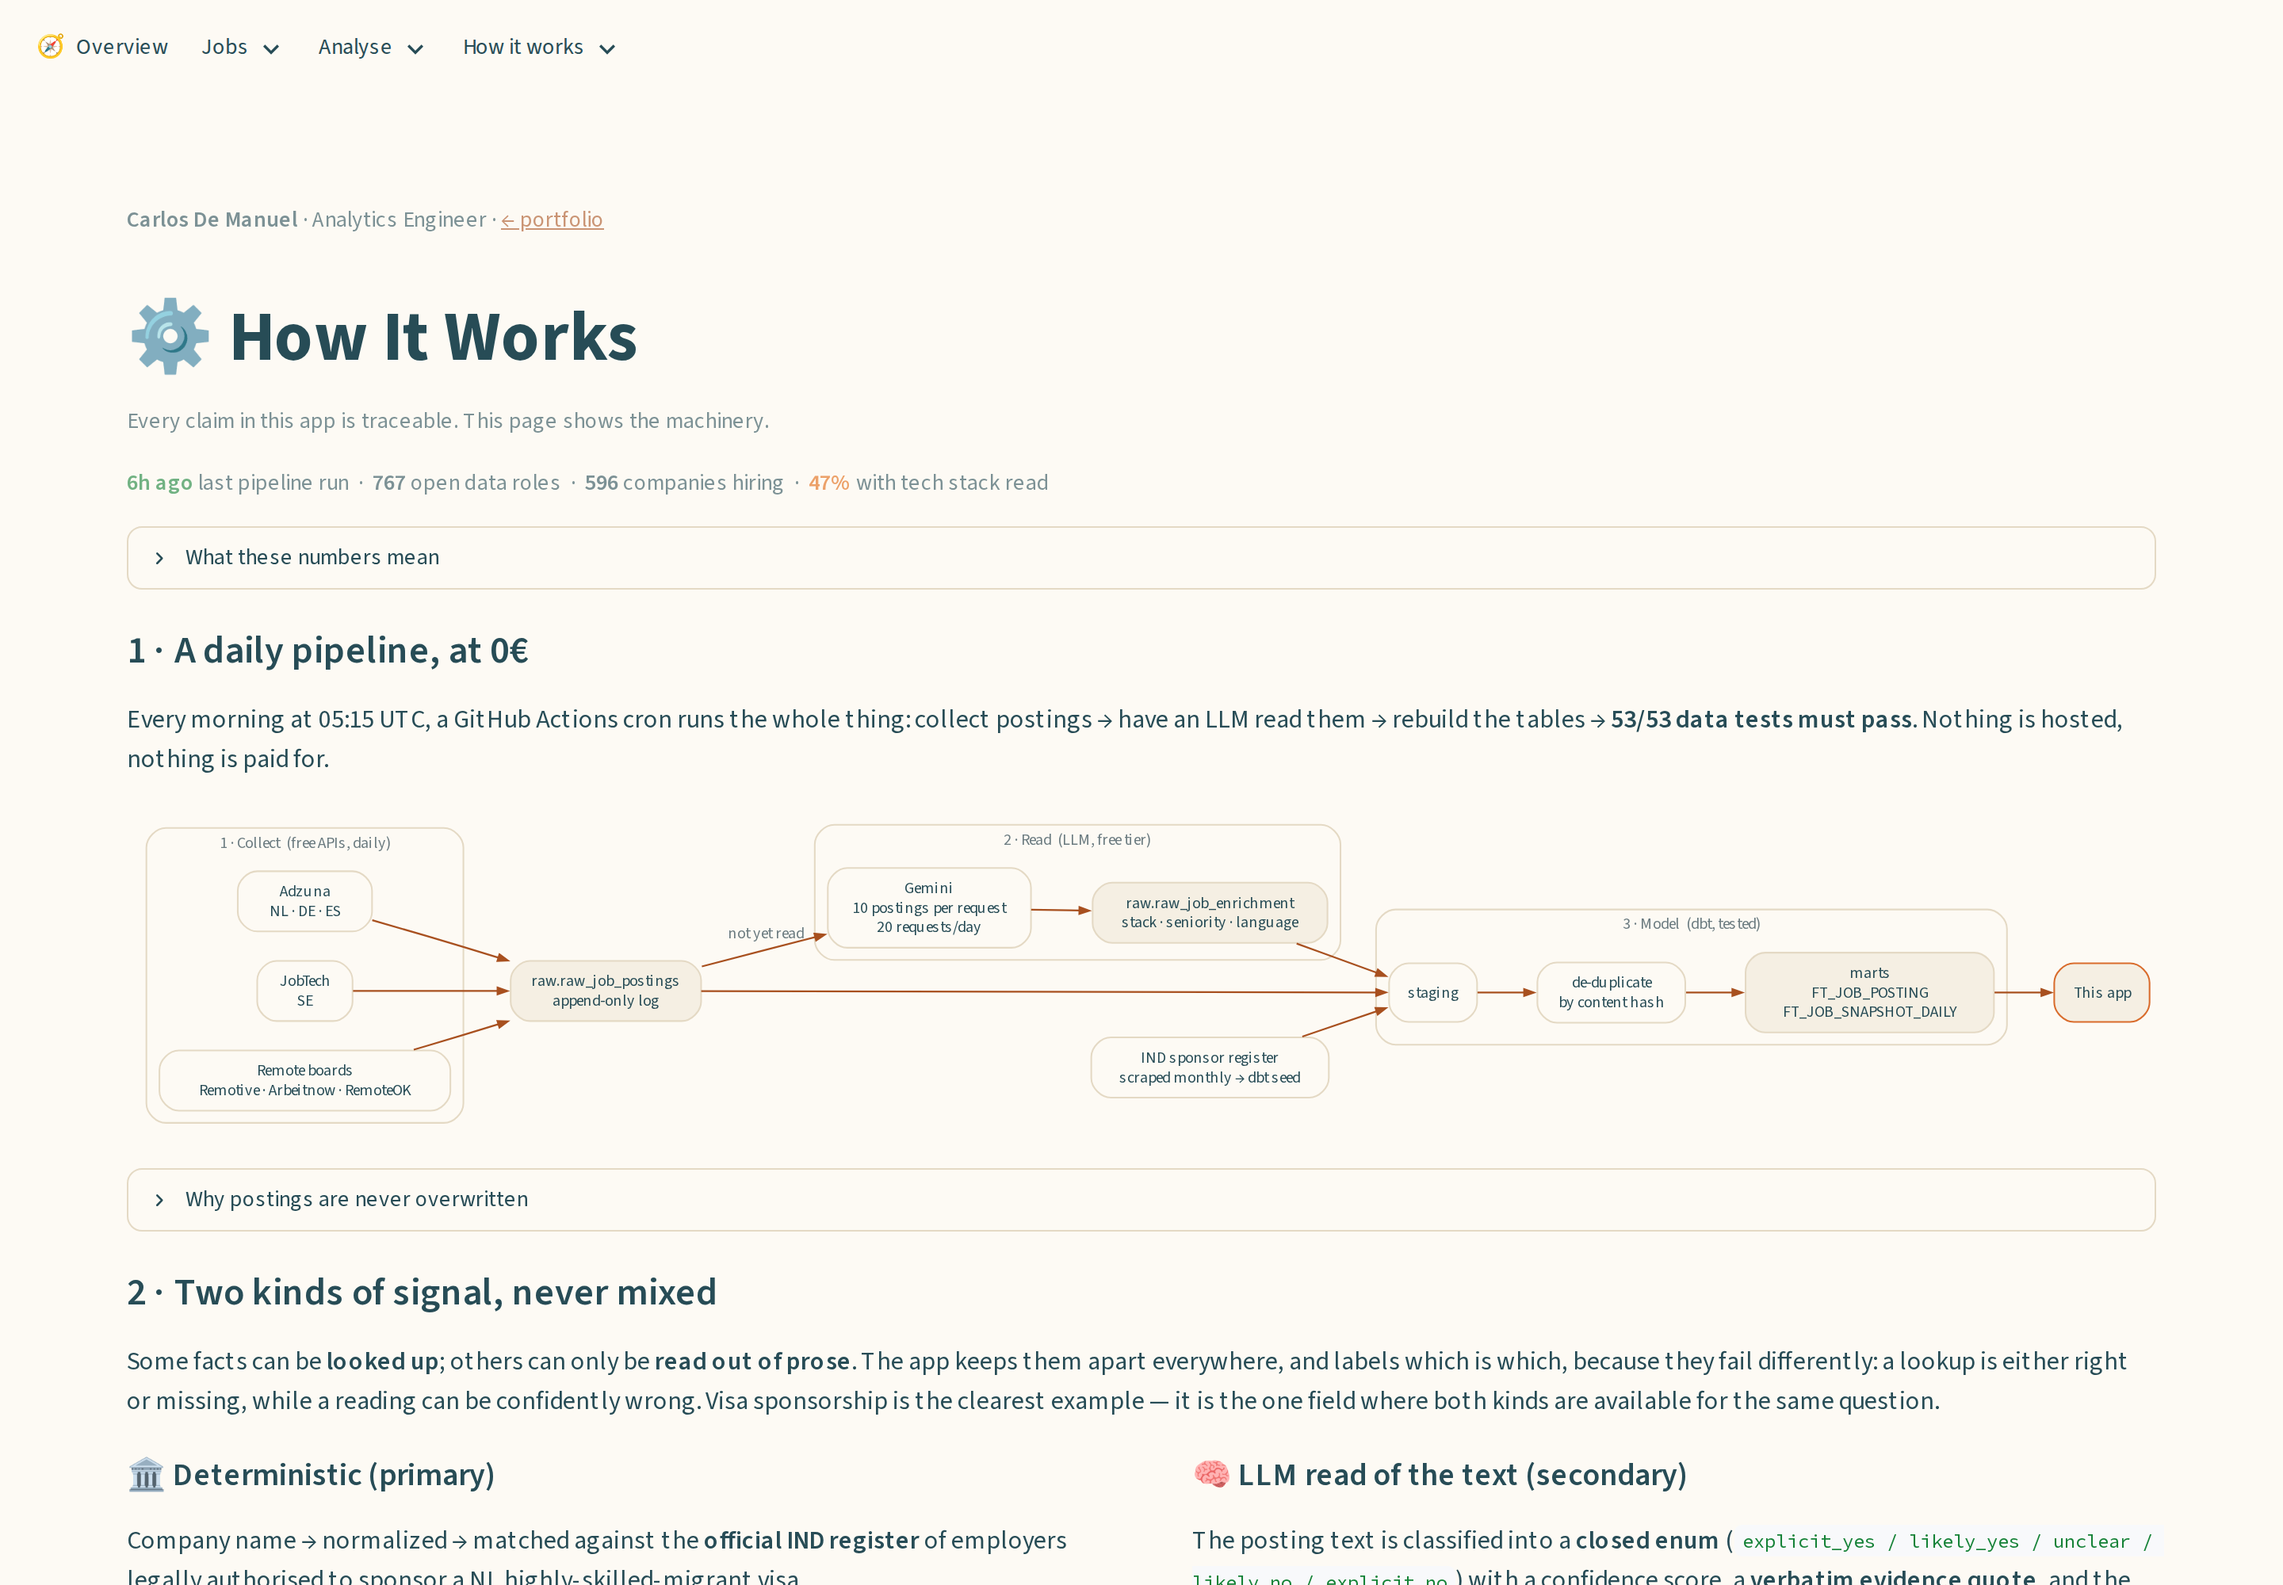
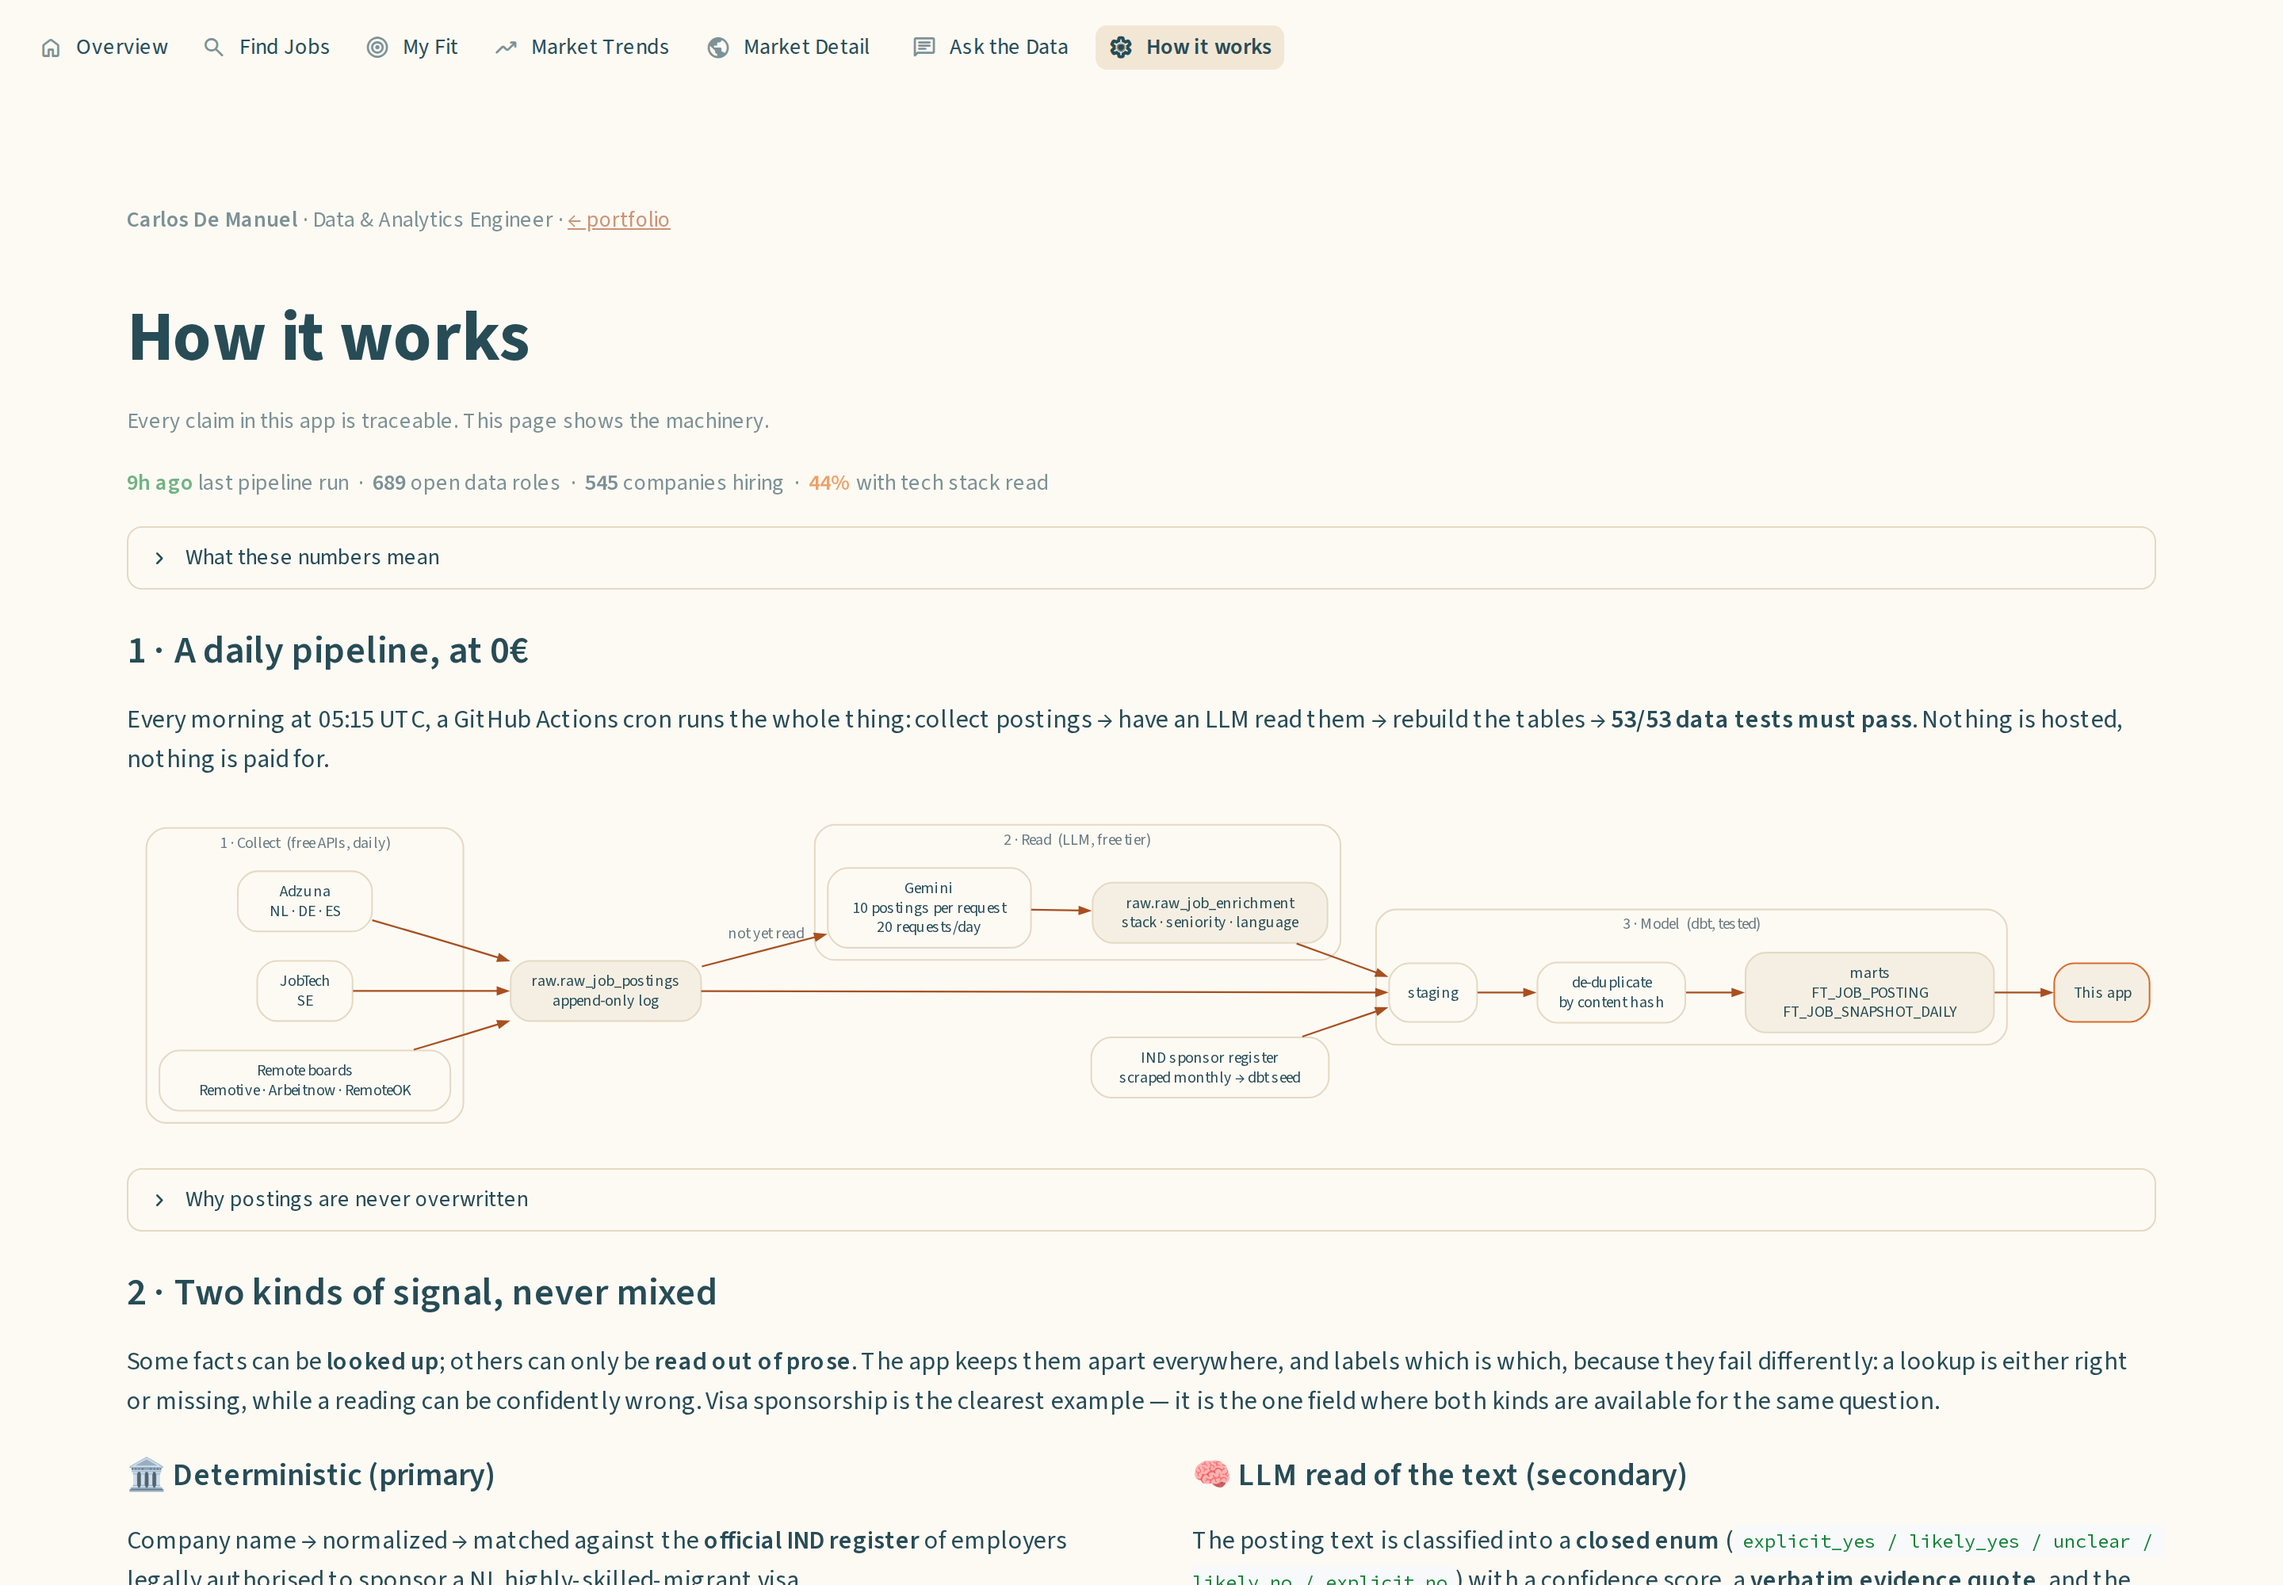
docs(readme): screenshots of the redesigned app
Every screenshot predated the flat nav, the new Overview and the
"Data & Analytics Engineer" byline. Recaptured from the live app at the
same 1440x1000 @2x: My Fit with a sample CV pasted, Market Detail on the
Netherlands and Find Jobs with a posting card open, as before. The
Overview's alt text and page table describe what it now shows.

diff --git a/README.md b/README.md
@@ -23,7 +23,7 @@ still apply.
 Gemini free tier, free job APIs, GitHub Actions as the scheduler — see
 [ADR 0005](docs/adr/0005-zero-cost-stack.md) and [ADR 0008](docs/adr/0008-gemini-is-the-default-provider.md)).
 
-[![The Overview page: open data roles per country, the stacks being hired for, and live coverage](docs/img/home.png)](https://job-market-intelligence-carlosdmv7.streamlit.app/)
+[![The Overview page: open roles and new roles this week, a heatmap of what each market's stack mix asks for, the newest postings, and new roles day by day](docs/img/home.png)](https://job-market-intelligence-carlosdmv7.streamlit.app/)
 
 <details>
 <summary><b>More screens</b> — Find Jobs, My Fit, Market Trends, Market Detail, Ask the Data, How It Works</summary>
@@ -131,7 +131,7 @@ full reasoning, with the numbers, is in ADR 0007.
 
 | Page | What it answers |
 |---|---|
-| **Overview** | How many data roles are open right now, in which countries, for which stacks |
+| **Overview** | How many data roles are open, what each market's stack mix asks for, what just landed, and how many new roles arrive each day |
 | **Find Jobs** | Every open posting as a filterable row — market, stack, seniority, salary, working language — and a card that leads with fit |
 | **My Fit** | Your CV against every open role: free stack-overlap ranking, then one LLM call on the posting you pick |
 | **Market Trends** | Country comparison incl. how often the ads are written in English, leading stacks day by day, 60+ days of snapshots |
@@ -162,7 +162,7 @@ IND sponsor register ──scraper──► dbt seed         raw.raw_job_enrichm
                                         │
                     MotherDuck + dbt medallion: staging → intermediate → marts
                                         │
-   Streamlit: Overview · Find Jobs · My Fit · Trends · Market Detail · Ask the Data · How It Works
+   Streamlit: Overview · Find Jobs · My Fit · Market Trends · Market Detail · Ask the Data · How it works
 ```
 
 **The 5 sources**, all `httpx`, all in [scrapers/](scrapers/jmi_scrapers):
